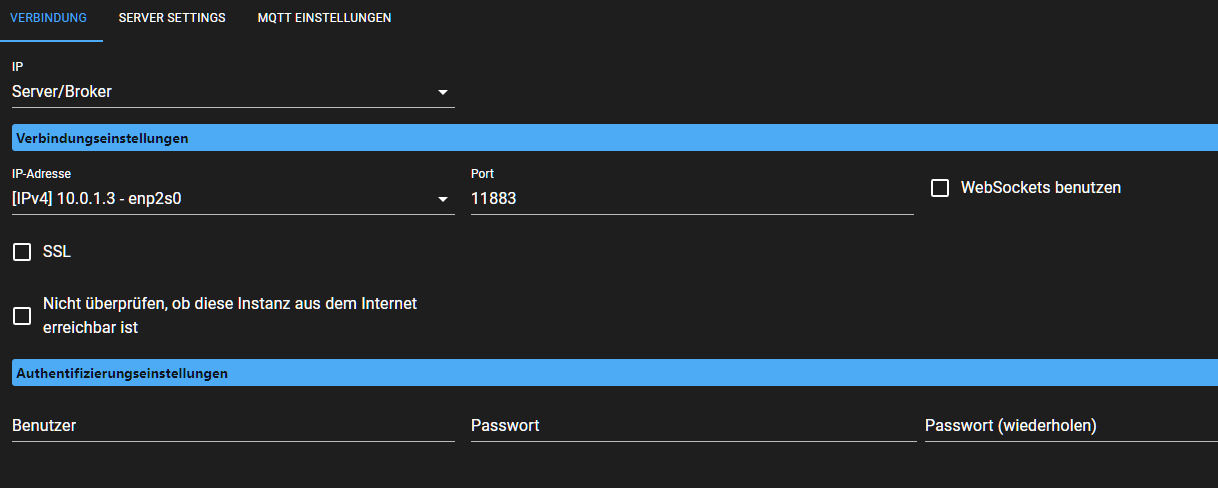
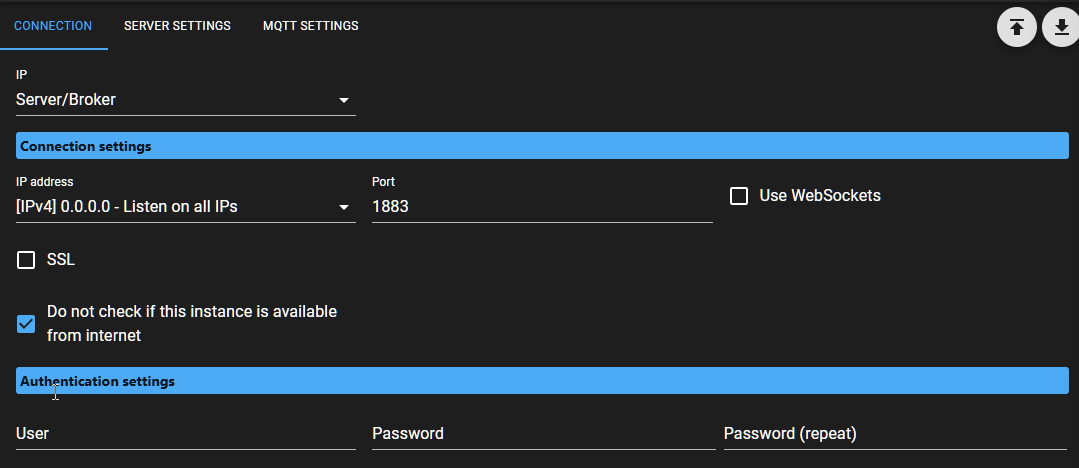
fixing switch types optimized some MQTT settings for better compatibility

Changed region(s): [[0.0, 0.0, 1.0, 0.5684], [0.0, 0.5983, 1.0, 0.9573], [0.9175, 0.0, 1.0, 0.1197]]

diff --git a/src/lib/mqtt-discovery-helper.ts b/src/lib/mqtt-discovery-helper.ts
@@ -93,7 +93,7 @@ export function generateDiscoveryMessage(
         // Für Schalter: Definiere zusätzlich den command_topic und die Payloads für ON/OFF.
         payload = {
             ...payload,
-            command_topic: `${baseTopic}`,
+            command_topic: `${baseTopic}/set`,
             payload_on: "true",
             payload_off: "false",
             state_on: "true",
@@ -129,7 +129,7 @@ export function generateDiscoveryMessage(
         // sofern diese im State hinterlegt sind.
         payload = {
             ...payload,
-            command_topic: `${baseTopic}`,
+            command_topic: `${baseTopic}/set`,
             options: Object.keys(state.common?.states),
         };
     }

diff --git a/build/lib/mqtt-discovery-helper.js b/build/lib/mqtt-discovery-helper.js
@@ -61,7 +61,7 @@ function generateDiscoveryMessage(stateId, state, adapter) {
   if (haComponent === "switch") {
     payload = {
       ...payload,
-      command_topic: `${baseTopic}`,
+      command_topic: `${baseTopic}/set`,
       payload_on: "true",
       payload_off: "false",
       state_on: "true",
@@ -85,7 +85,7 @@ function generateDiscoveryMessage(stateId, state, adapter) {
   } else if (haComponent === "select") {
     payload = {
       ...payload,
-      command_topic: `${baseTopic}`,
+      command_topic: `${baseTopic}/set`,
       options: Object.keys((_c = state.common) == null ? void 0 : _c.states)
     };
   }

diff --git a/README.md b/README.md
@@ -25,7 +25,8 @@ Adapter, der MQTT Discovery Nachrichten für Home Assistant generiert
 It is not recommended to use an existing MQTT instance.
 The adapter creates an additional state for each state, which holds the discovery configuration.
 Instead, a separate MQTT instance should be created with the following settings.
-Of course, the basic settings (IP address, port, authentication) can be adjusted and just need to match in this adapters' configuration.
+Of course, the basic settings (IP address, port, authentication) can be adjusted and just need to match this adapters' configuration.
+Most important settings are marked.
 
 ![Connection settings](doc/Page1_Connection.png)
 ![Server settings](doc/Page2_Server_Settings.png)
@@ -55,7 +56,8 @@ To enable Home Assistant Discovery, follow these steps:
 ## Changelog
 ### **WORK IN PROGRESS**
 - (FI) fixing switch types (ON/OFF -> true/false)
-- 
+- (FI) optimized some MQTT settings for better compatibility
+
 ### 0.1.0 (2025-02-06)
 - (FI) just version bumping
 
